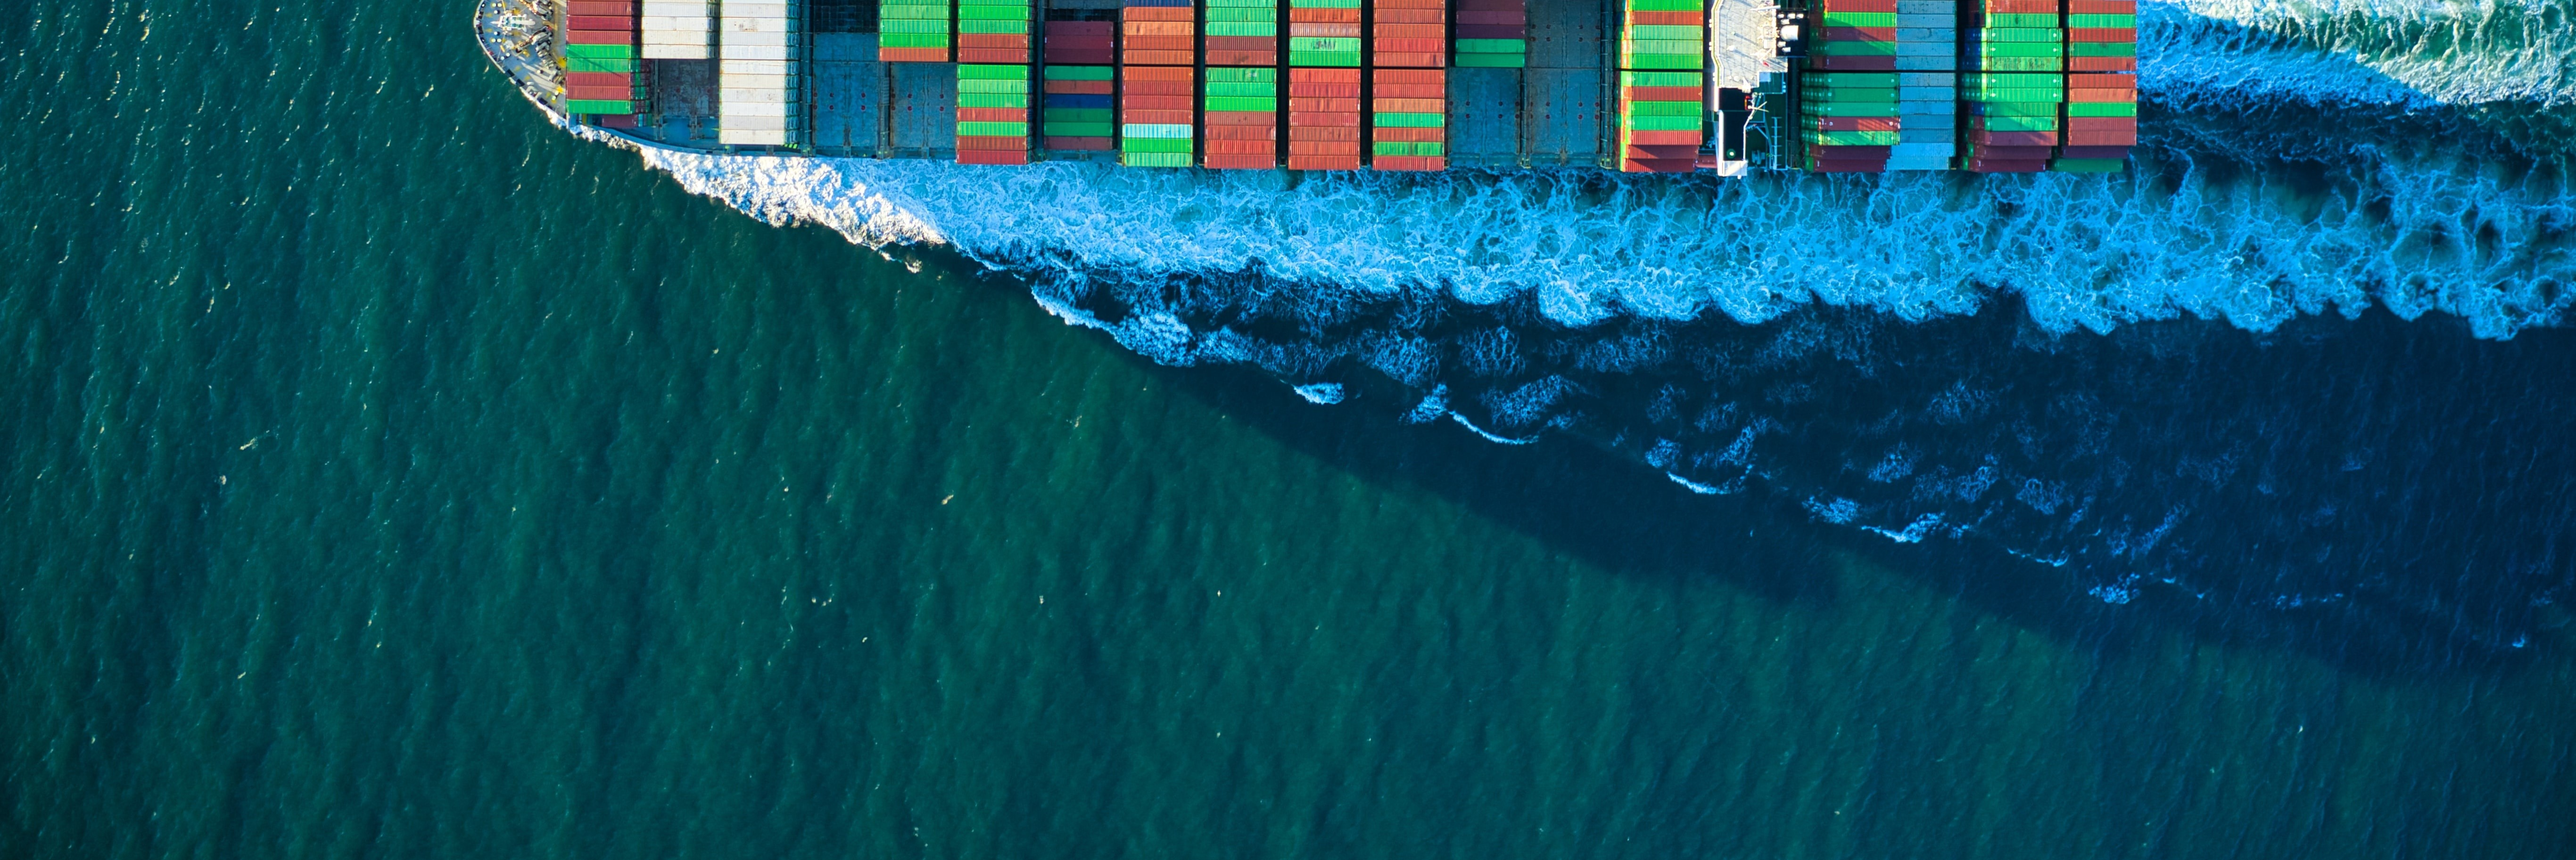
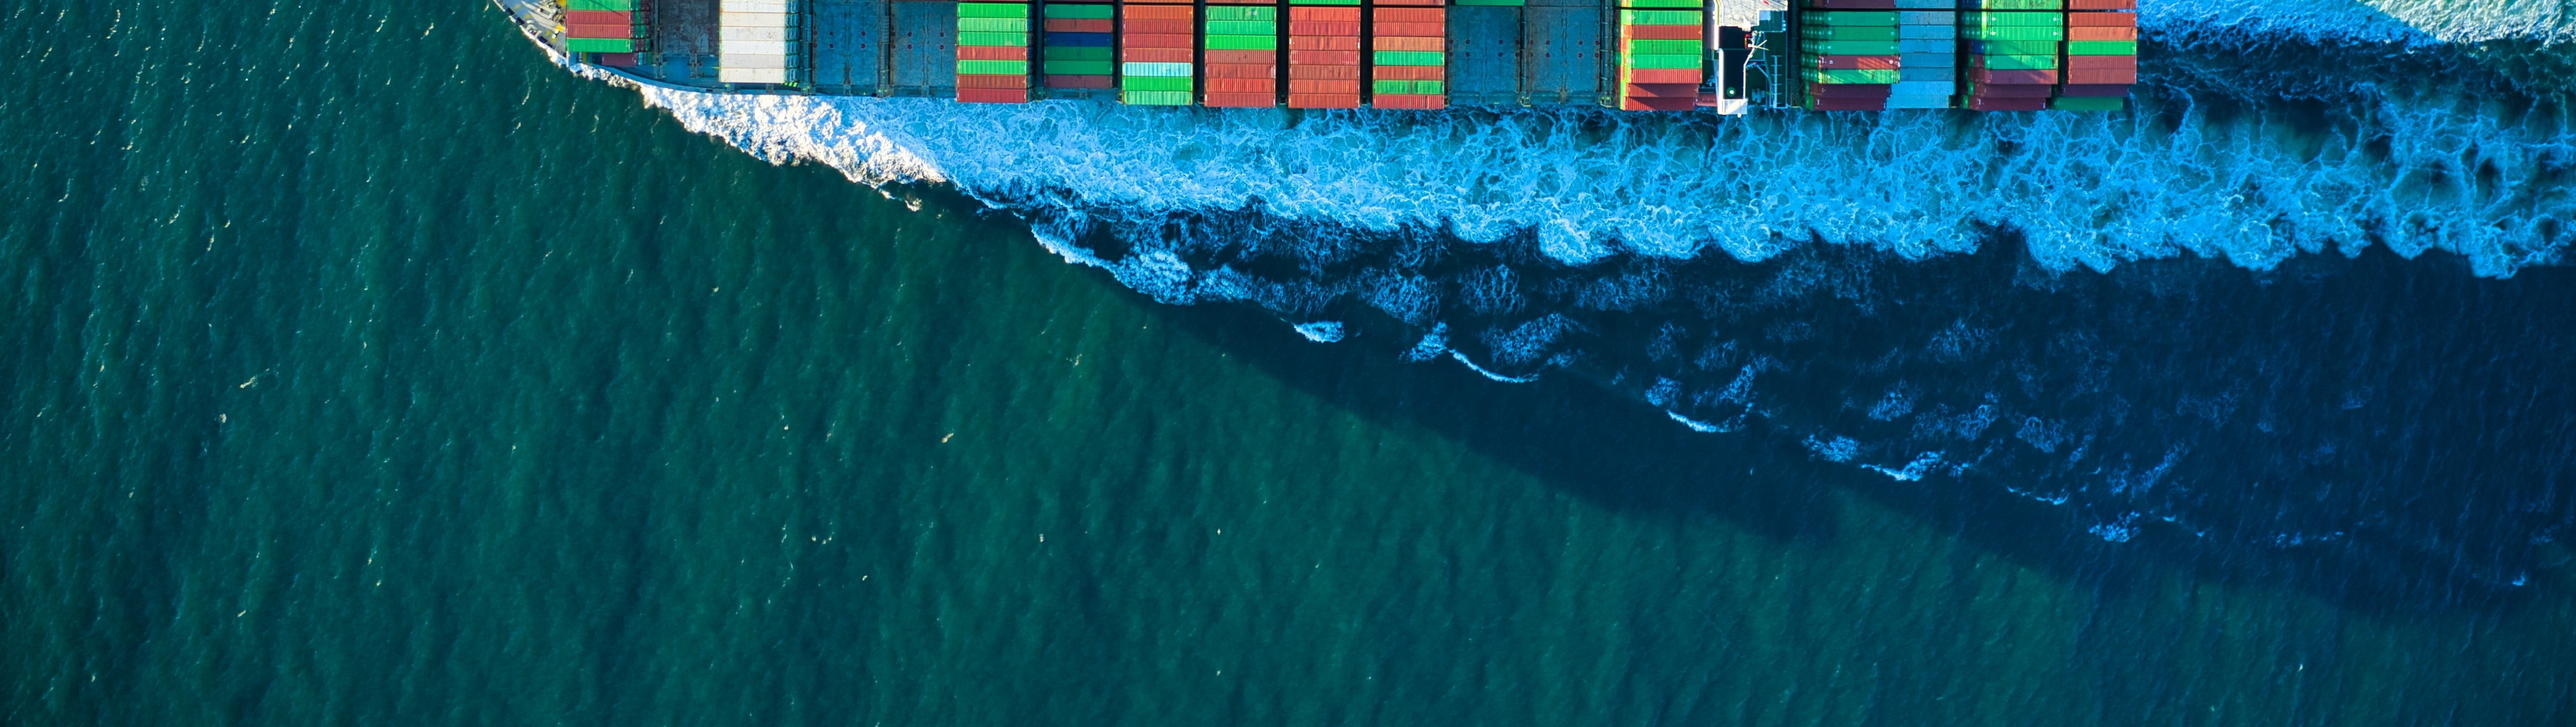
fix codes (whatever note you want here)

diff --git a/content/_index.md b/content/_index.md
@@ -55,11 +55,11 @@ sections:
       background:
         image:
           filename: background_ship.jpg  # Correct path to your image
-          focul_point: 
+          focul_point: center
           image_size: actual #  Options are `cover` (default), `contain`, or `actual` size.
           image_position: center # Options include `left`, `center` (default), or `right`.
     height: 100vh  # Increase height for more image visibility
-    width: 100%
+    width: 200%
 
 
   - block: about.biography
